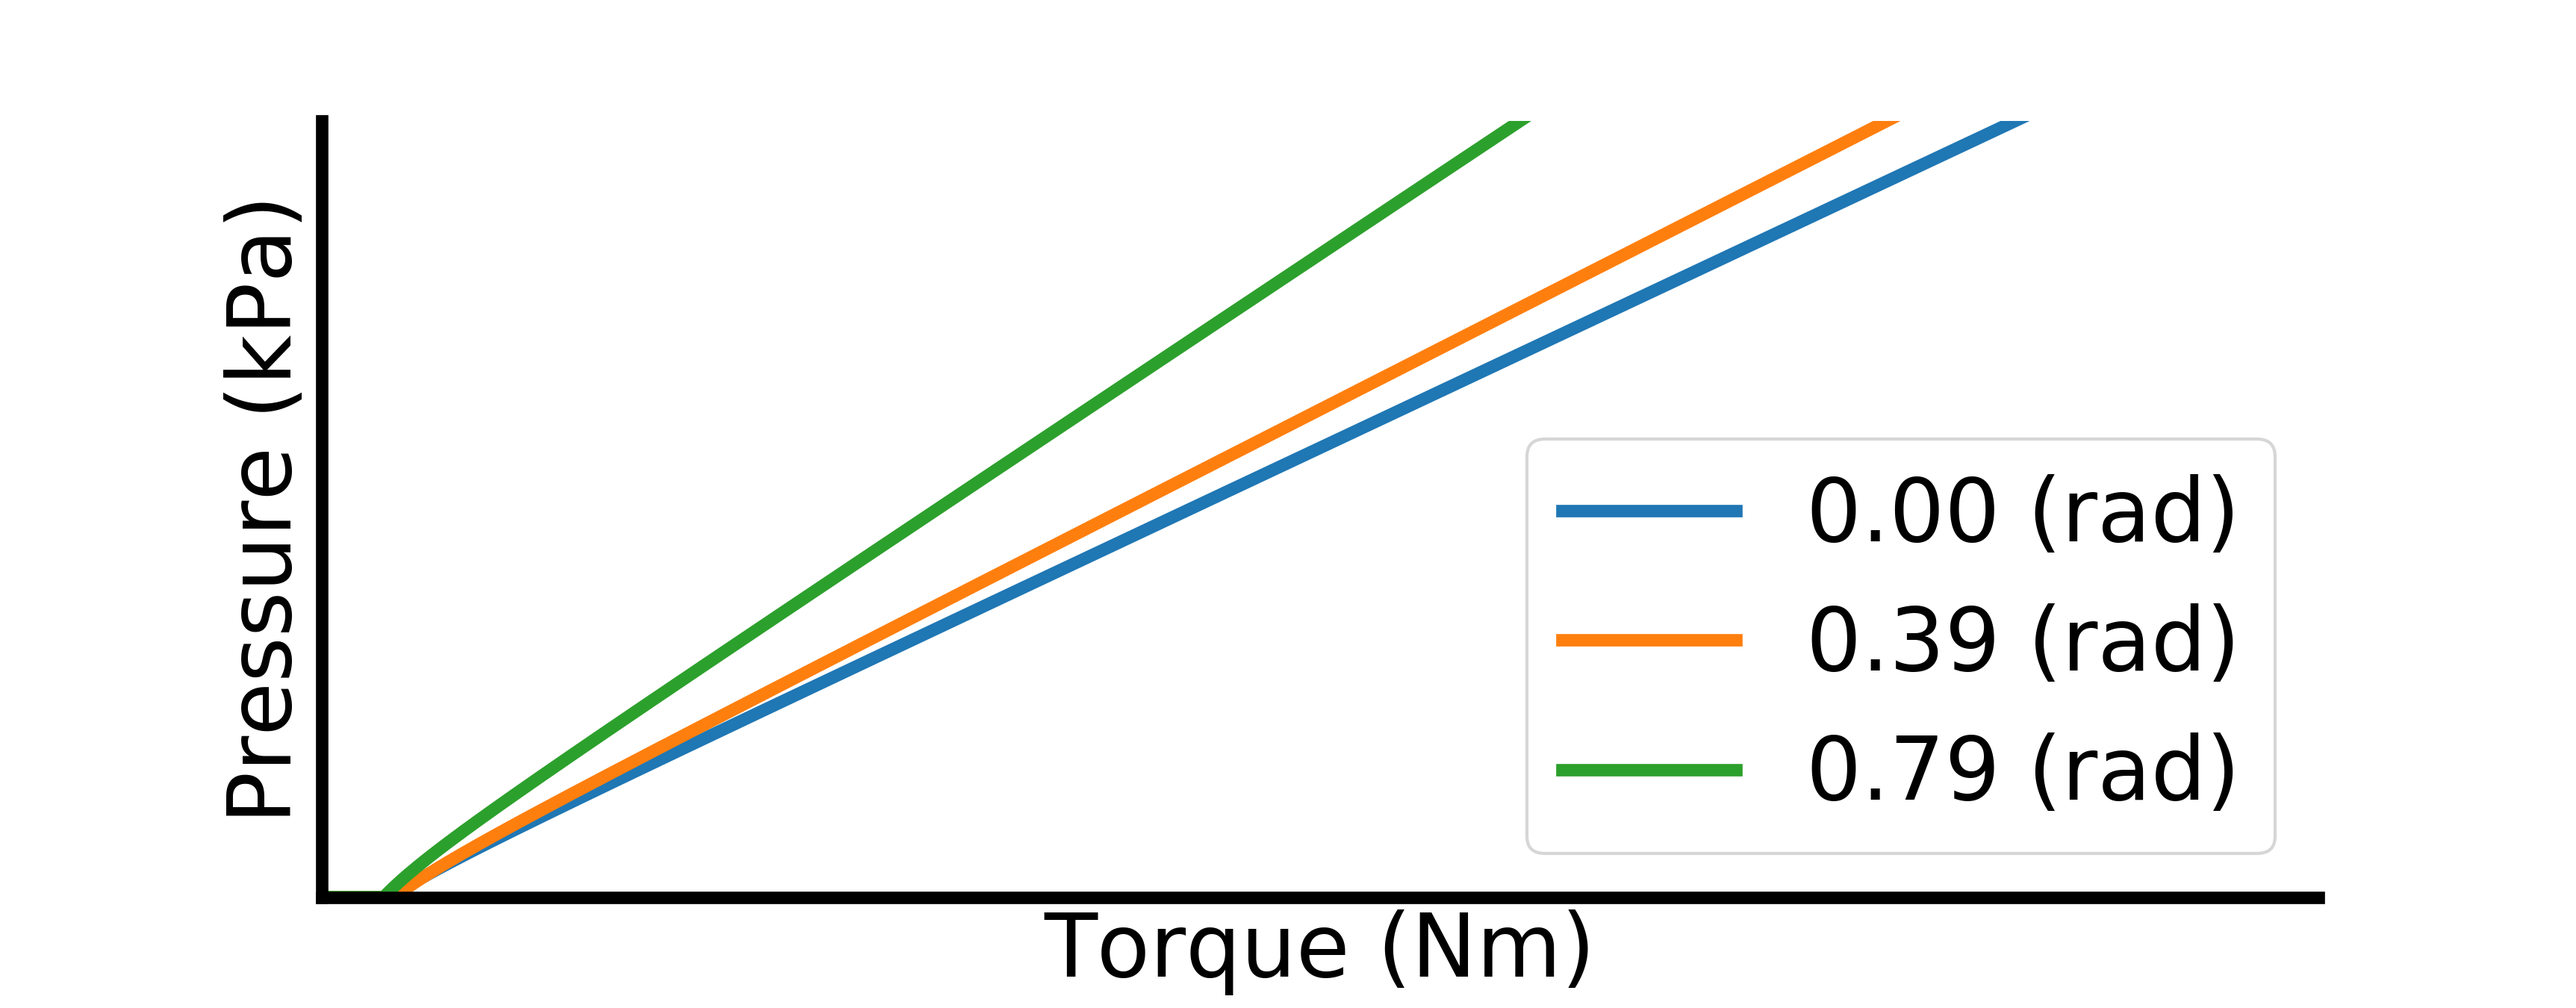
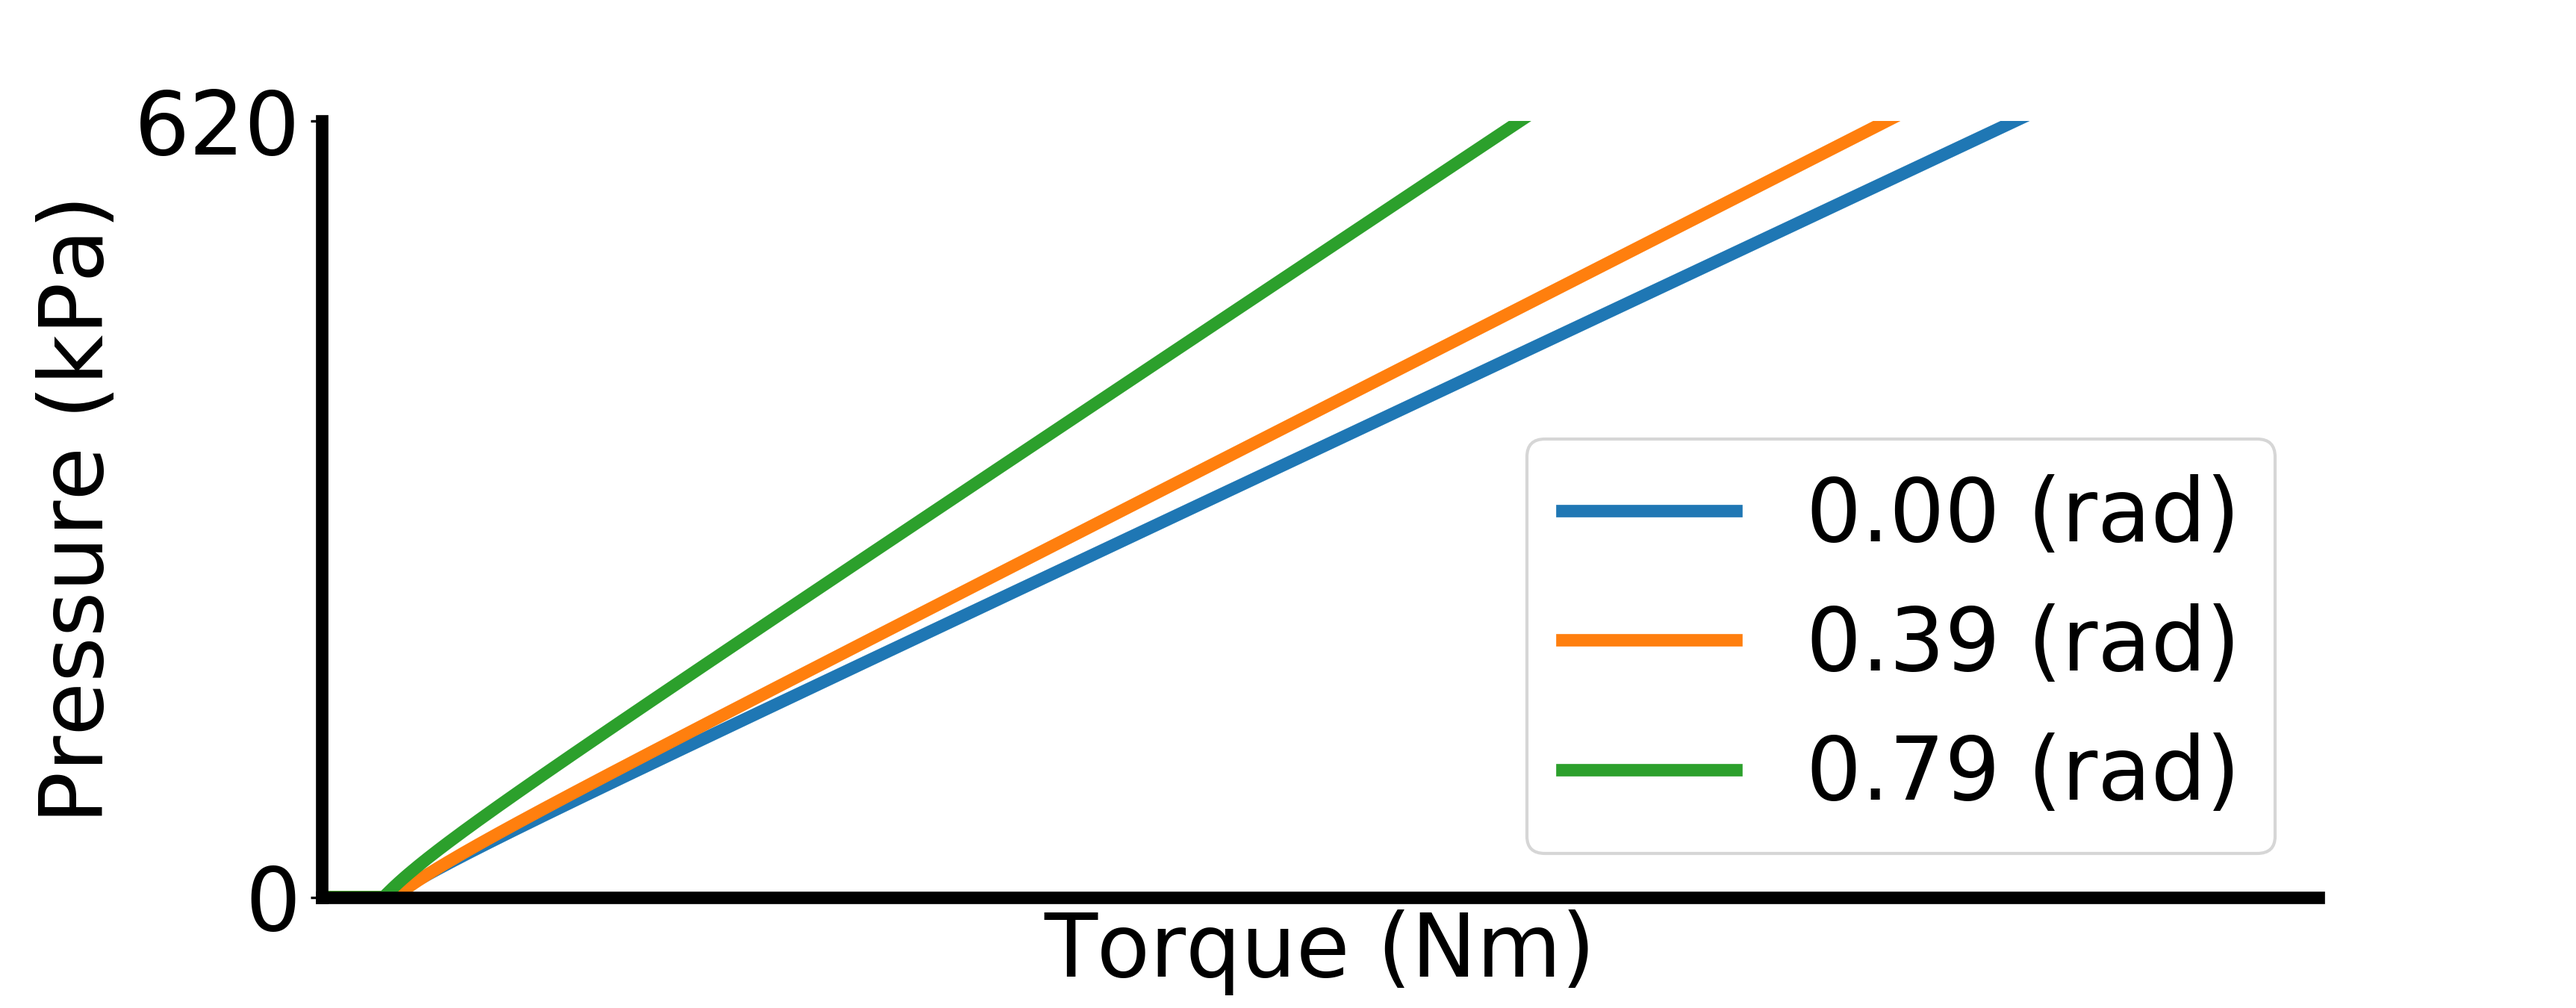
Add a pressure scale

diff --git a/stability/pressure_torque.py b/stability/pressure_torque.py
@@ -45,7 +45,7 @@ if __name__ == '__main__':
     ax.set_xlim(0, 3)
     ax.set_ylim(0, 620)
     ax.set_xticks([])
-    ax.set_yticks([])
+    ax.set_yticks([0, 620])
     ax.spines['right'].set_color('none')
     ax.spines['left'].set_linewidth(linewidth)
     ax.spines['top'].set_color('none')
